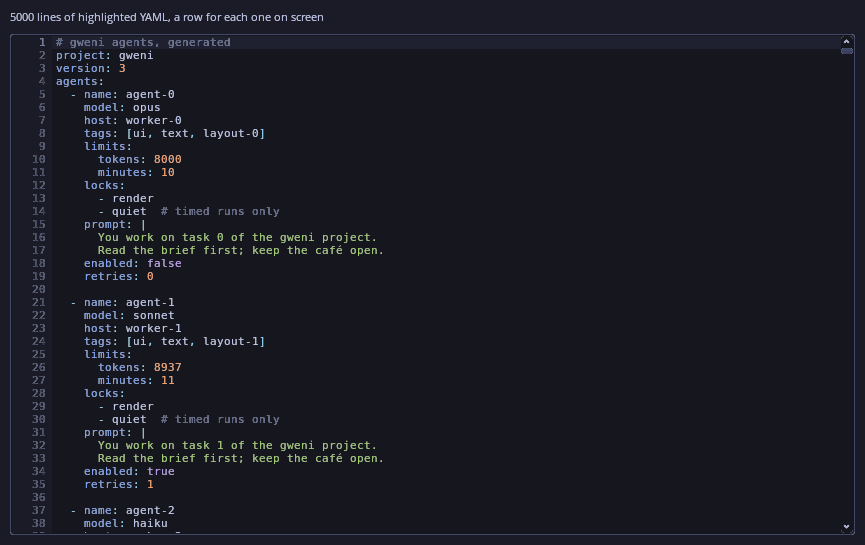
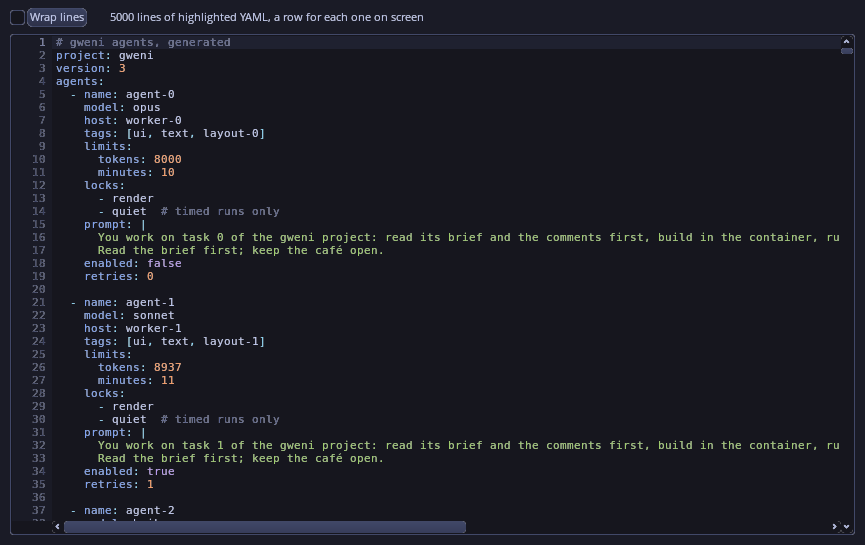
controltest, samples: the code-editor scenario's block entry found when the next entry is the screen's last line; CodeEditorDemo regenerated with #600's wrap toggle (#599)

diff --git a/examples/openglcore/controltest.cpp b/examples/openglcore/controltest.cpp
@@ -10533,9 +10533,10 @@ static bool runCodeEditorScenario(Session &s, const std::string &shotDir, bool &
 
         findShown();
         // scrolled so that 8 of the entry's 15 lines below it are on screen
-        if(entry != gweni::controls::CodeLine::NoLine && lastShown-entry < 8)
+        // (when the next entry's line is the screen's last, that entry's)
+        if(entry != gweni::controls::CodeLine::NoLine && (lastShown-entry)%16 < 8)
         {
-            editor->scrollByRows(static_cast<int>(8-(lastShown-entry)));
+            editor->scrollByRows(static_cast<int>(8-(lastShown-entry)%16));
             renderFrames(s, s.frames);
             settleCodeEditor(s, idle);
             findShown();
